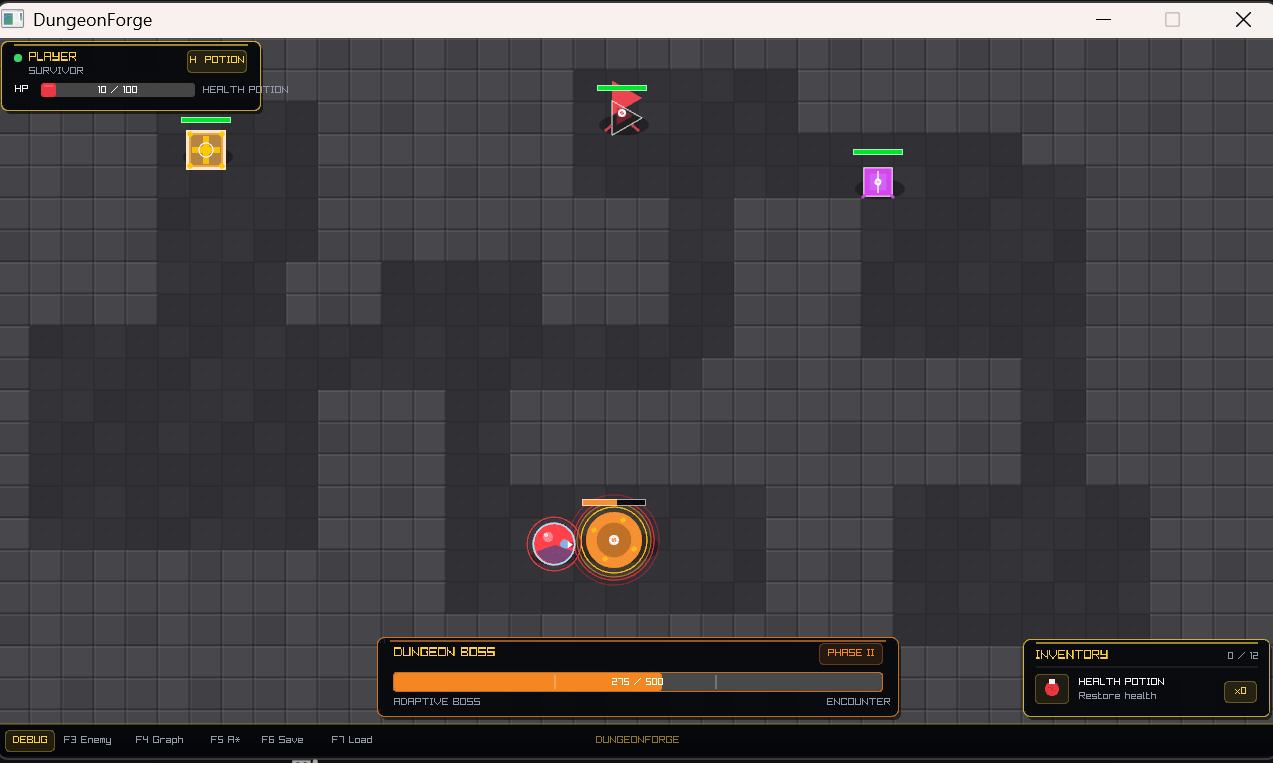
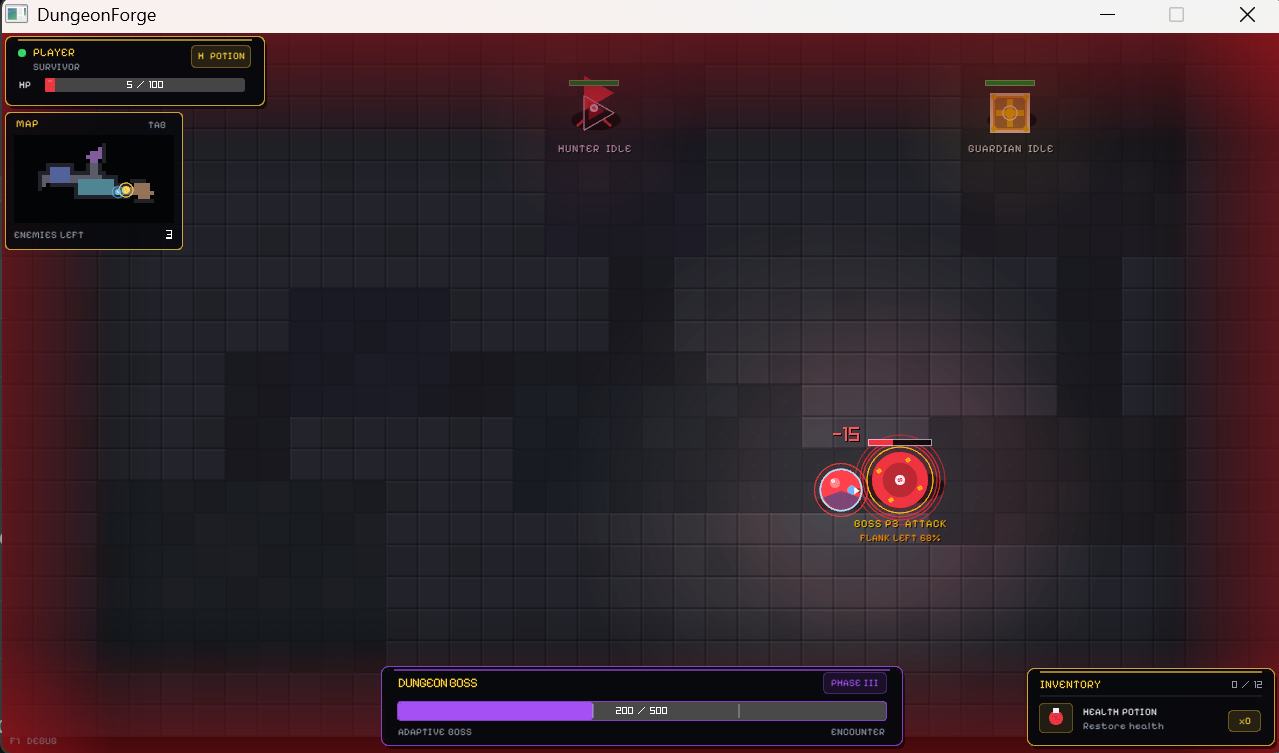
Update README for Phase 2: menu, lighting, minimap, AI cues, end-of-run report

diff --git a/README.md b/README.md
@@ -8,10 +8,10 @@
 ![raylib](https://img.shields.io/badge/raylib-6.0-E53935)
 ![Build](https://img.shields.io/badge/build-GNU%20Make-2E7D32)
 ![Platform](https://img.shields.io/badge/platform-Windows%20(MinGW--w64)-0078D6)
-![Tests](https://img.shields.io/badge/tests-5%20suites-success)
+![Tests](https://img.shields.io/badge/tests-6%20suites%20·%20191%20checks-success)
 ![License](https://img.shields.io/badge/license-MIT-lightgrey)
 
-**Procedural dungeons · A\* pathfinding · Adaptive enemy AI · 3-phase boss · Save / Load**
+**Procedural dungeons · A\* pathfinding · Adaptive enemy AI · 3-phase boss · Dynamic lighting · Save / Load**
 
 [Proposal](#-project-proposal) •
 [Features](#-features) •
@@ -24,18 +24,21 @@
 
 ---
 
-<!--
-SCREENSHOTS: take 3 screenshots of the game, save them as
-docs/screenshots/gameplay.png, boss.png and debug.png,
-then delete this comment markers (the lines with <!-- and -->)
-so the section below becomes visible.
-
 ## 📸 Screenshots
 
-| Gameplay | Boss Fight | AI Debug View (F3 / F5) |
-|:---:|:---:|:---:|
-| ![Gameplay](docs/screenshots/gameplay.png) | ![Boss](docs/screenshots/boss.png) | ![Debug](docs/screenshots/debug.png) |
--->
+| Title Menu | Gameplay |
+|:---:|:---:|
+| ![Menu](docs/screenshots/menu.png) | ![Gameplay](docs/screenshots/gameplay.png) |
+
+| Adaptive AI Cues | Boss Fight |
+|:---:|:---:|
+| ![AI cues](docs/screenshots/ai.png) | ![Boss](docs/screenshots/boss.png) |
+
+| End-of-Run Report: *What the enemies learned* |
+|:---:|
+| ![Stats](docs/screenshots/stats.png) |
+
+---
 
 ## 📋 Project Proposal
 
@@ -43,16 +46,16 @@ so the section below becomes visible.
 
 DungeonForge is a real-time 2D top-down roguelike. The player explores a procedurally generated dungeon, fights enemies, collects health potions, and defeats a multi-phase boss.
 
-The whole project is written in **C only**. Every system (game loop, collision, pathfinding, AI, event queue, save/load) is implemented from scratch. raylib is used only for the window, drawing, input, and audio.
+The whole project is written in **C only**. Every system (game loop, collision, pathfinding, AI, event queue, lighting, save/load) is implemented from scratch. raylib is used only for the window, drawing, input, and audio.
 
-What makes it different is **Adaptive Enemy Intelligence**: the game records how the player moves, dodges, and attacks, builds a statistical profile, and lets enemies pick counter-strategies from it. No machine learning is used, only counters, probabilities, and decision rules.
+What makes it different is **Adaptive Enemy Intelligence**: the game records how the player moves, dodges, and attacks, builds a statistical profile, and lets enemies pick counter-strategies from it. The AI's decisions are drawn directly in the world, and an end-of-run report tells the player what the enemies learned about them. No machine learning is used, only counters, probabilities, and decision rules.
 
 ### 🎯 Goals
 
 - Show structured, modular C programming: clear headers, small modules, no hidden coupling
-- Implement classic game algorithms by hand: tile collision, A\*, finite-state machines, procedural generation
-- Build an event-driven analysis pipeline that changes gameplay
-- Persist game state with versioned binary serialization
+- Implement classic game algorithms by hand: tile collision, A\*, finite-state machines, procedural generation, a pseudo-random generator
+- Build an event-driven analysis pipeline that changes gameplay and is visible to the player
+- Persist game state with versioned, validated binary serialization
 - Verify the logic-heavy modules with automated tests
 - Follow good repository practice: `.gitignore`, `Makefile`, meaningful commits, license, documentation
 
@@ -69,7 +72,8 @@ What makes it different is **Adaptive Enemy Intelligence**: the game records how
 | **Dungeon** | up to 20 rooms, spanning-tree connectivity, 2-tile-wide corridors |
 | **Enemies** | Hunter, Guardian, Assassin + 3-phase Boss |
 | **Pathfinding** | 8-direction A\*, no corner cutting |
-| **Save format** | binary with magic number and version header |
+| **Save format** | binary, magic number + version header, full validation on load |
+| **Font** | Pixelify Sans (SIL Open Font License) |
 
 ---
 
@@ -83,9 +87,9 @@ What makes it different is **Adaptive Enemy Intelligence**: the game records how
 - 8-direction movement
 - Dodge roll with invulnerability frames
 - Real-time melee combat (cone attack)
-- Inventory (12 slots) and item drops
-- Health potions
-- HUD, boss health bar, sound effects
+- Inventory (12 slots), item drops, potions
+- 3-phase boss with a special attack
+- Title menu, pause screen, end-of-run report
 
 </td>
 <td width="50%" valign="top">
@@ -94,9 +98,32 @@ What makes it different is **Adaptive Enemy Intelligence**: the game records how
 - Procedural dungeon + dungeon graph
 - A\* pathfinding with safe waypoints
 - Enemy finite-state machines
-- Local steering and enemy separation
 - Event queue and player profiling
-- Versioned binary save / load
+- Independent random generators per module
+- Versioned, validated binary save / load
+
+</td>
+</tr>
+<tr>
+<td width="50%" valign="top">
+
+**🎨 Look and feel**
+- Dynamic lighting: player torch, enemy glows, item glows
+- Tinted rooms and a vignette
+- Dodge cooldown ring
+- Floating damage and heal numbers
+- Screen shake and a low-health warning
+- Custom pixel font and a polished HUD
+
+</td>
+<td width="50%" valign="top">
+
+**🗺 Information**
+- Minimap with fog of war
+- Boss health bar with phase markers
+- Enemy cues drawn in the world
+- Debug overlays (labels, dungeon graph, A\*)
+- Save/load status messages
 
 </td>
 </tr>
@@ -113,18 +140,20 @@ flowchart LR
     C --> D[Adaptive AI<br/>per-archetype decision]
     D --> E[Enemy FSM<br/>changes movement or attack]
     E -->|affects| A
+    D --> F[Visual cues<br/>drawn in the world]
+    C --> G[End-of-run report]
 ```
 
 Each enemy asks the AI for a decision about once per second. A decision only takes effect when a **probability roll succeeds**, so enemies are strong but never perfectly predictable.
 
-| Enemy | Reads | Reaction |
-|---|---|---|
-| 🔺 **Hunter** | dodge habits (movement as fallback) | predicts your likely dodge direction and aims slightly ahead of it |
-| 🛡 **Guardian** | how often you attack | changes its attack tempo depending on how aggressive you are |
-| 🔷 **Assassin** | dodge habits (movement as fallback) | flanks the side *opposite* your dodge habit |
-| 👑 **Boss** | dodge habits (movement as fallback) | flanks or closes distance based on your tendencies |
+| Enemy | Reads | Reaction | What you see |
+|---|---|---|---|
+| 🔺 **Hunter** | dodge habits (movement as fallback) | predicts your likely dodge direction and aims slightly ahead of it | red dashed line and crosshair |
+| 🛡 **Guardian** | how much you have attacked recently | defends when you attack heavily (takes less damage), attacks faster when you are passive | cyan shield ring or red spikes |
+| 🔷 **Assassin** | dodge habits (movement as fallback) | flanks the side opposite your habit, or rushes you if you dodge vertically | purple or gold line and crosshair |
+| 👑 **Boss** | dodge habits (movement as fallback) | flanks or closes distance based on your tendencies | purple or gold line and crosshair |
 
-> The learned profile is stored in the save file, so loading a game keeps what the enemies have learned.
+The learned profile is stored in the save file, so loading a game keeps what the enemies have learned. The end-of-run screen tells you what they learned, for example *"You dodge left 78% of the time"*.
 
 <details>
 <summary><b>👑 Boss phases</b></summary>
@@ -134,6 +163,8 @@ Each enemy asks the AI for a decision about once per second. A decision only tak
 | I | above 70% | 150 | melee attack |
 | II | 70% to 40% | 175 | melee + special attack |
 | III | below 40% | 210 | enraged: faster melee, faster special |
+
+The boss is stagger-resistant, so rapid hits cannot cancel its attacks.
 
 </details>
 
@@ -147,12 +178,19 @@ Each enemy asks the AI for a decision about once per second. A decision only tak
 | `Shift` | Dodge |
 | `Space` | Melee attack |
 | `H` | Drink health potion |
-| `R` | Restart after death or victory |
-| `F3` | Toggle enemy debug text |
-| `F4` | Toggle dungeon graph overlay |
-| `F5` | Toggle A\* pathfinding overlay |
+| `ESC` / `P` | Pause |
+| `R` | New run (after death or victory) |
+| `M` | Main menu (from pause or the end screen) |
+| `TAB` | Show or hide the minimap |
+| `F1` | Show or hide the debug footer |
+| `F2` | Lighting on or off |
+| `F3` | Enemy labels (type, state, decision) |
+| `F4` | Dungeon graph overlay |
+| `F5` | A\* pathfinding overlay |
 | `F6` | Save game |
 | `F7` | Load game |
+
+In the main menu: `ENTER` starts a new run, `L` loads a save, `ESC` quits.
 
 ---
 
@@ -201,11 +239,14 @@ third_party/raylib-6.0_win64_mingw-w64/lib/libraylib.a
 make test
 ```
 
+**6 suites, 191 automated checks.**
+
 | Suite | Verifies |
 |---|---|
 | `test_events` | FIFO order, capacity, wrap-around, empty queue, NULL handling |
-| `test_behavior` | counters, probabilities, damage and heal statistics, profile restore and validation |
-| `test_adaptive_ai` | decision validity, per-archetype behavior, probabilistic adaptation |
+| `test_behavior` | counters, probabilities, decaying attack score, profile restore and validation |
+| `test_adaptive_ai` | decision validity, per-archetype behavior, probabilistic adaptation, vertical-dodge handling |
+| `test_rng` | determinism, independence, ranges, distribution |
 | `test_serialization` | round trip, truncated files, invalid arguments |
 | `test_pathfinding` | valid and invalid inputs, same-tile and cross-room paths, unreachable goals |
 
@@ -221,7 +262,10 @@ DungeonForge/
 ├── README.md
 ├── LICENSE
 ├── .gitignore
-├── assets/audio/       sound effects (.ogg)
+├── assets/
+│   ├── audio/          sound effects (.ogg)
+│   └── fonts/          Pixelify Sans + its OFL license
+├── docs/screenshots/   images used by this README
 ├── include/            headers (.h)
 ├── src/                implementation (.c)
 ├── tests/              automated test programs
@@ -239,6 +283,7 @@ flowchart TB
     Game --> World
     Game --> Entities
     Game --> Systems
+    Game --> Presentation
 
     subgraph World
         TileMap
@@ -258,7 +303,15 @@ flowchart TB
         FSM[Enemy FSM]
         Combat
         Events[Events → Behavior → Adaptive AI]
+        RNG[Random generators]
         Save[Save / Load]
+    end
+
+    subgraph Presentation
+        UI[UI and fonts]
+        Effects[Numbers and shake]
+        Lighting
+        Minimap
     end
 ```
 
@@ -266,20 +319,23 @@ flowchart TB
 
 - 📦 **Fixed-size data structures** (event ring buffer of 256, enemy pool of 32, drop pool of 32): no dynamic allocation in the game loop.
 - 📨 **Event-driven analysis**: gameplay code only pushes events and never touches the AI, so the AI can be tested without a window.
-- 🎲 **Deterministic dungeons**: a dungeon is regenerated from its seed, so saves store the seed and not the whole map.
-- 🔐 **Versioned saves**: a magic number and version reject incompatible or foreign files.
+- 🎲 **Independent random generators**: the dungeon and the AI each own one, so generating a map never disturbs the AI's rolls, and tests can seed them.
+- 🔐 **Versioned and validated saves**: a magic number and version reject foreign files, and the whole file is checked before any game state changes.
+- 🎯 **Cues match behavior**: the on-screen AI cues are drawn from the same target the enemy steers toward, so what you see is what it does.
 - ✅ **Tested logic core**: modules that do not depend on raylib are built and tested on their own.
 
 ---
 
 ## 🚧 Known Limitations and Roadmap
 
-- [x] Boss phases with special attack
-- [x] Adaptive AI with probability rolls
+- [x] Boss phases with special attack and stagger resistance
+- [x] Adaptive AI with probability rolls and visible cues
 - [x] Learned profile saved with the game
-- [ ] Attacks that follow the player's facing (currently hits right only)
+- [x] Title menu, pause screen, and end-of-run report
+- [x] Lighting, minimap, floating numbers, screen shake
 - [ ] Random dungeon seed per run (currently fixed)
 - [ ] Enemies placed across rooms, boss in the farthest room
+- [ ] Attacks that follow the player's facing (currently hits right only)
 - [ ] Attack wind-ups so dodging matters
 - [ ] Combat distance tracked in the player profile
 - [ ] Obtainable Iron Sword and Iron Armor (defined, not yet droppable)
@@ -291,6 +347,8 @@ Saves are binary and not portable across compilers or platforms.
 ## 📄 License
 
 Released under the **MIT License**. See [LICENSE](LICENSE).
+
+The bundled font, Pixelify Sans, is licensed under the SIL Open Font License (`assets/fonts/OFL.txt`).
 
 <div align="center">
 
